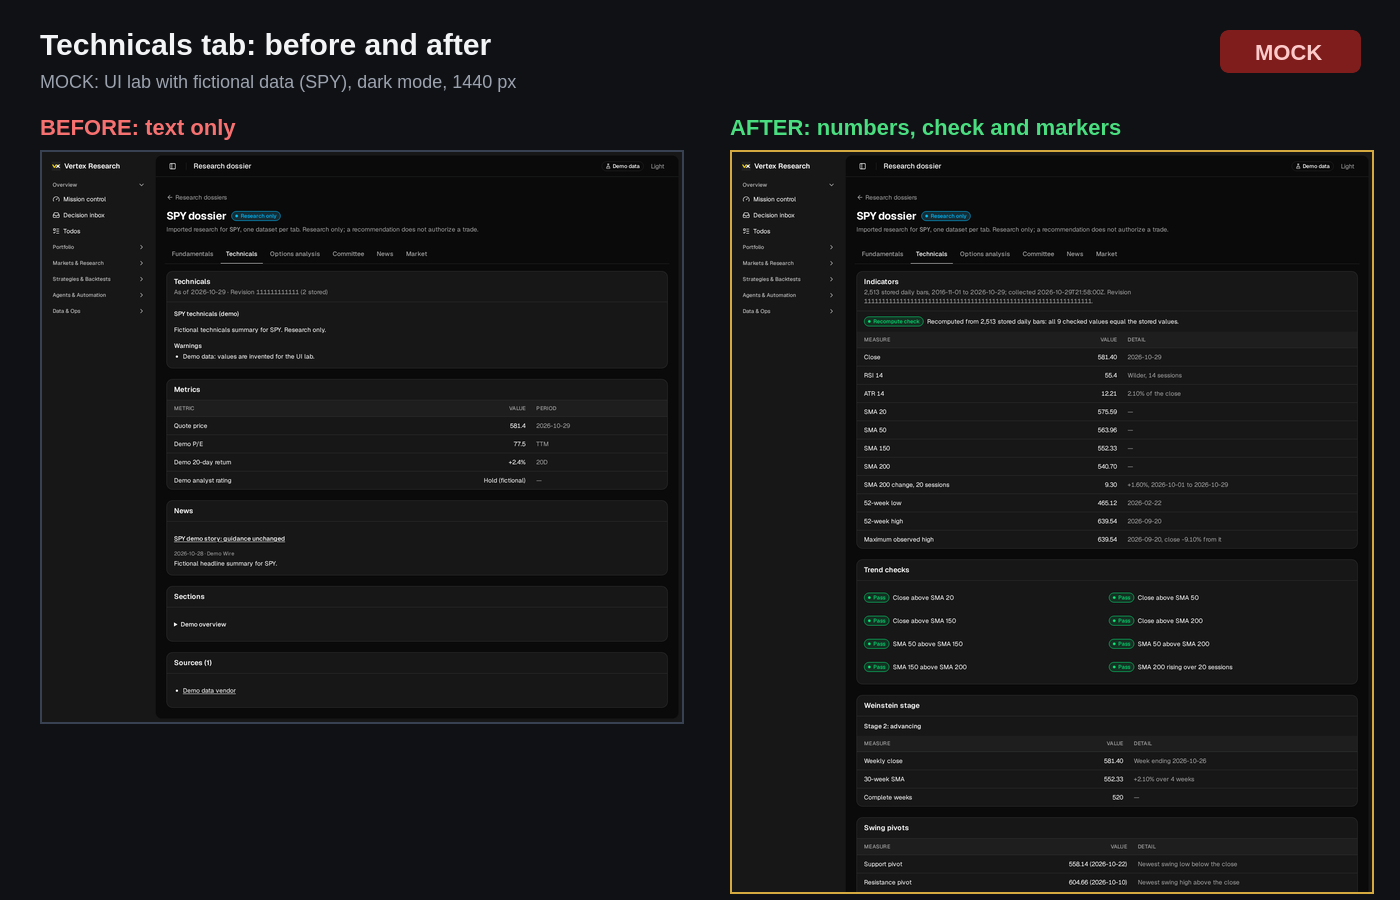
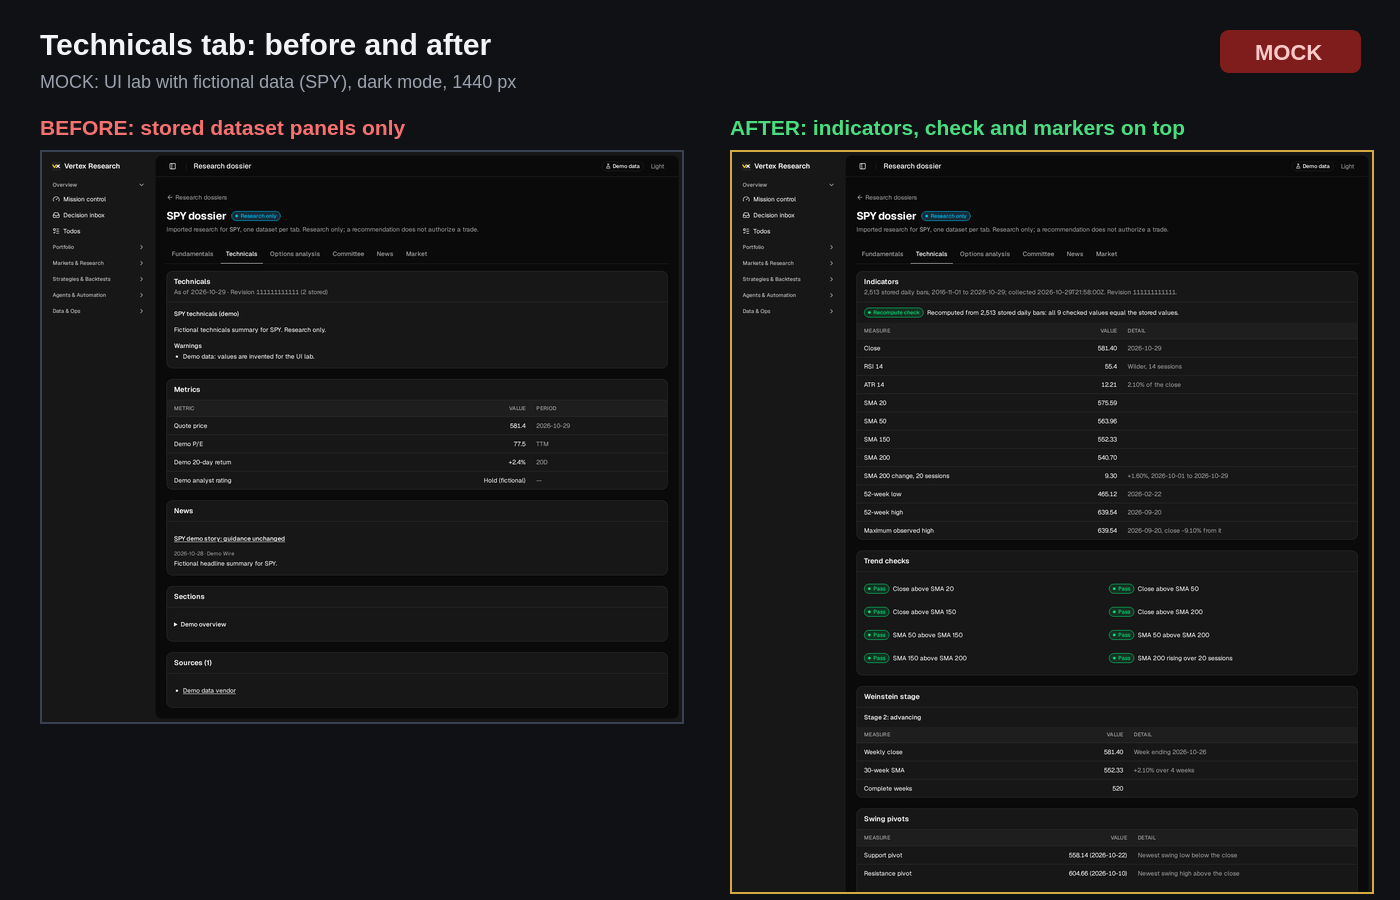
docs: note the private-section filter and refresh the technicals before-after image
- Before-after recaptured after the short revision id; labels match the images.

diff --git a/docs/vertex-rebuild/designs/research-report-technicals/design.md b/docs/vertex-rebuild/designs/research-report-technicals/design.md
@@ -136,6 +136,7 @@ The stored dossier numbers were not visible. The old APP technical note computed
 | Modify | Reviewed reads | `packages/api/src/agent-viewer.test.ts` | Adds `researchReports.technicals`. |
 | Create | View-model | `apps/web/src/features/research-reports/technicals-view-model.ts` | `toTechnicalsViewModel`: rows, labels and text for each panel. |
 | Modify | Page | `apps/web/src/components/portal/research-reports.tsx` | Gateway method `technicals(reportId)`; `TechnicalsPanels` (load key `<reportId>/technicals`) rendered by `DatasetTab` for the technicals tab. |
+| Modify | Dataset view-model | `apps/web/src/features/research-reports/view-model.ts` | Drops the private `entry` section of the flat APP technicals. |
 | Modify | UI lab | `apps/web/src/lab/fixtures/research.ts`, `apps/web/src/lab/entries/research.tsx` | Fictional technicals for `/lab/research-report`. |
 | Modify | Docs | `docs/vertex-rebuild/research-reports.md` | API row for `researchReports.technicals`; the Technicals tab in Pages; P1-4 removed from the remaining work. |
 
@@ -181,7 +182,7 @@ The largest measured market body is 784 KB (AAPL, 2,513 bars, with options data)
 | A one-week dip below a rising SMA reads as Stage 3. | Documented in D5; the slope and weekly close are shown next to the stage. |
 | Daily bars hide where volume traded inside the day. | The page notes call the profile a daily-bar approximation. |
 | Futures roll gaps distort markers. | Warning line for reports whose `assetType` is `future`. |
-| The stored APP body may hold account-related text. | Only the read list passes; text fields pass only as `YYYY-MM-DD` dates. |
+| The stored APP technicals hold order and exposure text (section `entry`: a pending share order, the position's exposure). | `researchReports.technicals` passes only the read list, with text fields only as `YYYY-MM-DD` dates. The dataset panels never show a section with id `entry` (`PRIVATE_SECTION_IDS` in `apps/web/src/features/research-reports/view-model.ts`). |
 
 ## Alternatives Considered
 
